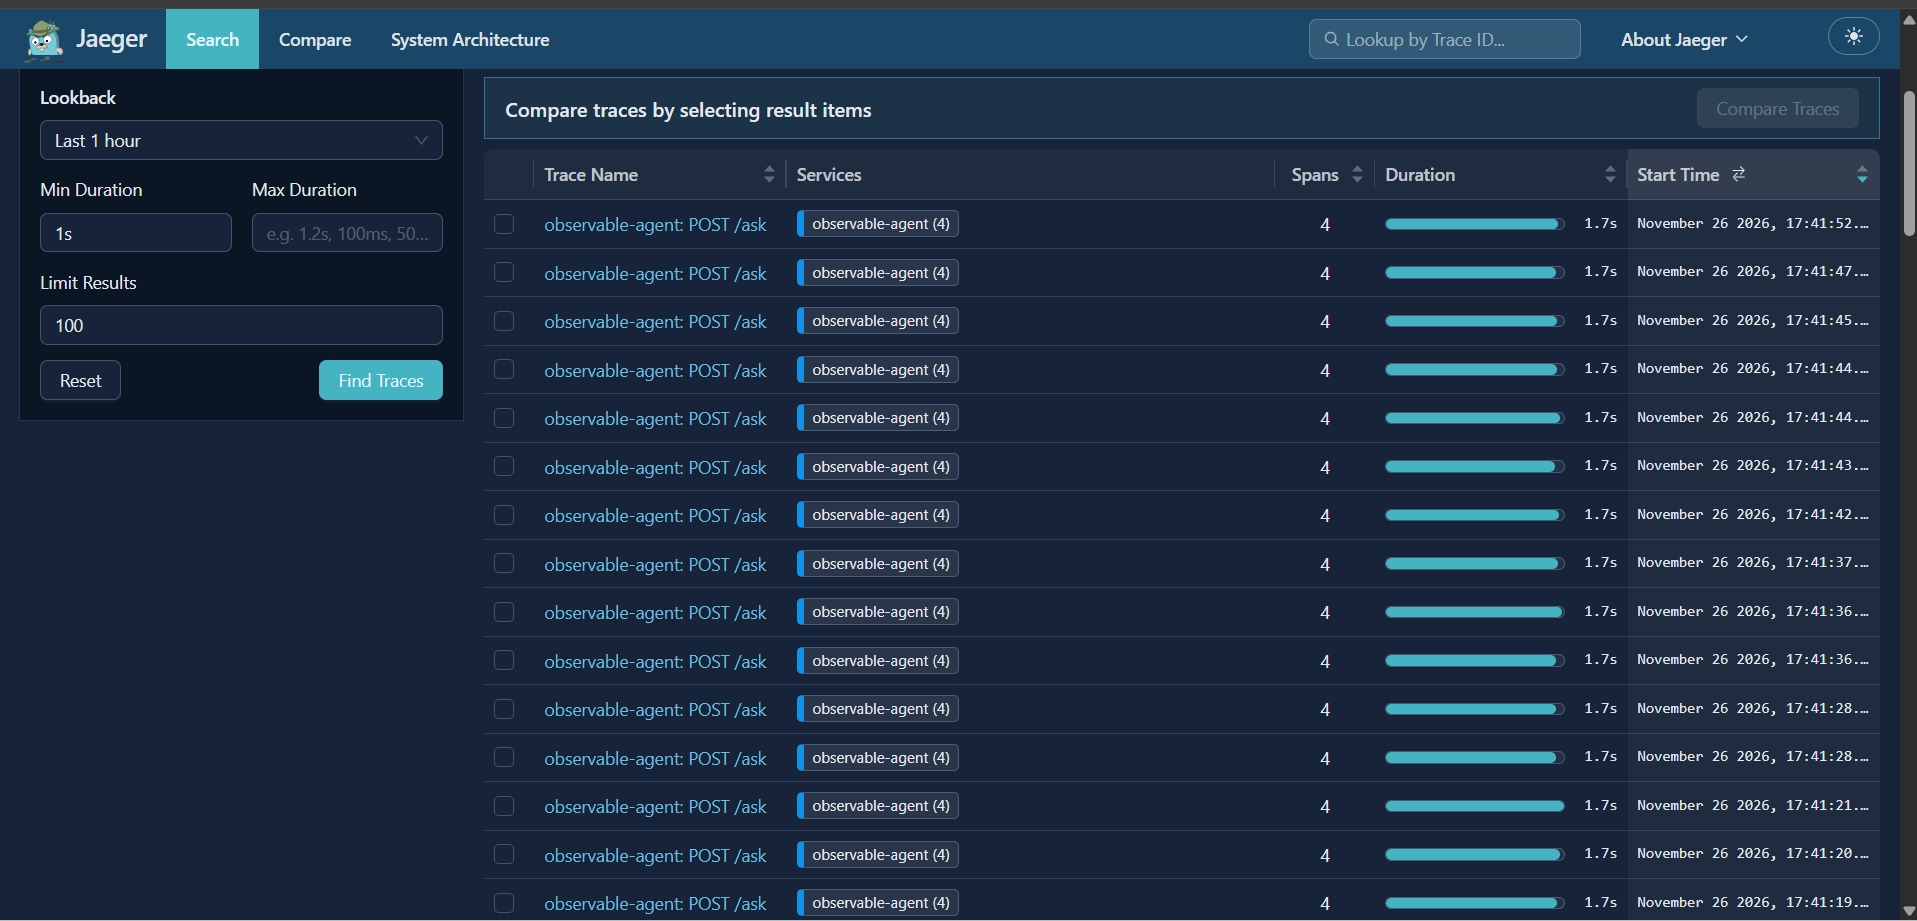
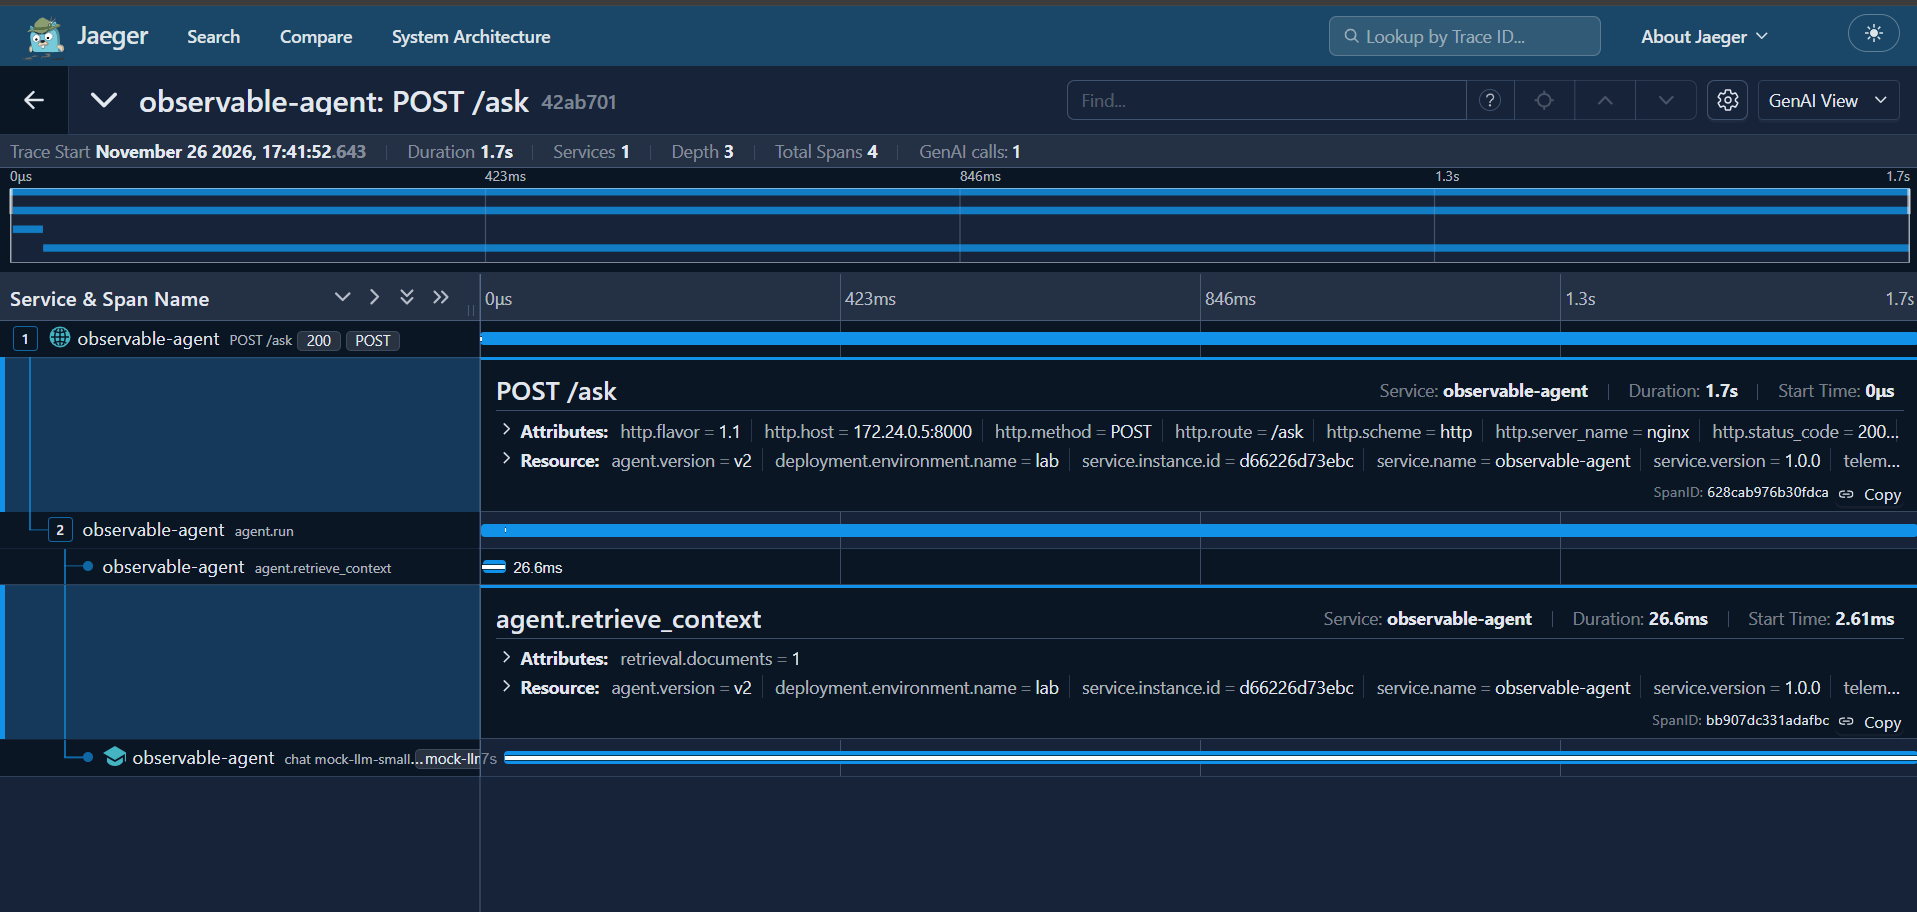
Finalize Day14 submission evidence and report

diff --git a/BENCHMARK_REPORT.md b/BENCHMARK_REPORT.md
@@ -89,15 +89,35 @@ Evidence: `reports/eval_v1.json`, `reports/eval_v2.json`, `reports/eval_v2_fixed
 
 Stack gồm Agent, Nginx, Prometheus, Grafana, Jaeger và Locust. Agent chạy 1 worker/container để tránh sai lệch metric trong bộ nhớ từng process. Prometheus scrape metric, Grafana hiển thị dashboard, Jaeger nhận OTLP traces; JSON log liên kết theo trace_id. Khi khởi chạy, Dockerfile ban đầu bị lỗi import uvicorn do đường dẫn user-site không khớp home directory. Đã sửa cài dependencies vào /install ở builder và copy sang /usr/local ở runtime; giữ multi-stage, non-root, healthcheck và một worker. Sau khi sửa, Agent healthy và `/health` qua Nginx trả HTTP 200. Xung đột port 8080 cũng đã được xử lý.
 
+**Exercise 7.4 — Observability Stack Questions**
+
+1. **p95 và average latency khác nhau như thế nào?**
+
+   Trong benchmark scaling với 1 instance, endpoint /ask có average latency 242.26 ms và p95 250 ms. Với 3 instances, average latency là 236.76 ms và p95 là 260 ms. Ảnh Grafana khi có tải ghi nhận p95 là 291.51 ms, error rate 0.21% và traffic 8.6 requests/s. Average chính xác tại thời điểm chụp ảnh chưa được ghi lại. Khoảng cách giữa average và các percentile cao phản ánh tail latency; một nhóm request chậm có thể ảnh hưởng trải nghiệm người dùng dù average vẫn thấp.
+
+2. **Nginx có phân phối traffic đều giữa các instance không?**
+
+   Panel Requests/s theo instance trong thí nghiệm E cho thấy ở giai đoạn có 3 instances, mỗi instance xử lý khoảng 6 requests/s. Traffic được phân phối tương đối đồng đều. Khi chỉ còn 2 instances hoạt động trong giai đoạn trước đó, mỗi instance xử lý khoảng 9 requests/s.
+
+3. **Vì sao input tokens/s có thể lớn hơn output tokens/s?**
+
+   Input tokens bao gồm câu hỏi, system prompt và context được retrieval bổ sung. Vì vậy input có thể lớn hơn output. Trong slow trace thực tế, input là 76 tokens và output là 39 tokens. Tuy nhiên, tỷ lệ này phụ thuộc độ dài câu trả lời; dashboard tổng hợp không phải lúc nào cũng có input tokens/s lớn hơn output tokens/s.
+
+4. **Vì sao Nginx chặn endpoint /metrics?**
+
+   Cấu hình nginx/nginx.conf định nghĩa location = /metrics trả về HTTP 404. Điều này ngăn truy cập công khai vào metrics nội bộ, tránh tiết lộ thông tin về traffic, chi phí và tình trạng hệ thống. Prometheus vẫn có thể scrape trực tiếp Agent thông qua Docker network. HTTP 404 là kết quả theo cấu hình; chưa lưu riêng output curl của endpoint này.
+
 ### 4.2 Thí nghiệm "phá hệ thống"
 
-| # | Thay đổi | Alert nào firing | Thời gian từ lúc đổi → firing | Panel nào phản ánh rõ nhất |
+| # | Thay đổi | Alert nào firing | Thời gian từ lúc đổi → quan sát firing | Panel nào phản ánh rõ nhất |
 |---|---|---|---|---|
-| A | `MOCK_ERROR_RATE=0.2` | AgentHighErrorRate | Chưa ghi chính xác; rule `for: 1m` | Error rate 20.61% (Grafana), 19.45% (Prometheus); p95 290.28 ms |
-| B | `MOCK_SLOW_RATE=0.3` (giữ error rate 0.2) | AgentHighLatencyP95 và AgentHighErrorRate | Chưa ghi chính xác; latency rule `for: 2m` | p95 1.90 s, error rate 19.37%, 15.1 req/s |
-| C | `LLM_MODEL=mock-llm-large` (khôi phục A/B) | LLMCostBurnRateHigh | Chưa điền thời gian thực đo; rule `for: 2m` | LLM cost (1h) 4.4189 USD; p95 664.19 ms, error rate 1.32% |
-| D | `docker pause` 1 instance (model mặc định) | AgentInstanceDown; LLMCostBurnRateHigh cũng đang firing | Chưa điền thời gian thực đo; instance rule `for: 30s` | Instances up 2/3, traffic 18 req/s, error rate 0.81%, p95 294.47 ms |
-| E | `AGENT_VERSION=v1` | Không có alert firing tại thời điểm quan sát | N/A | Tokens/s giảm; response xác nhận agent_version=v1; retrieval panel còn dữ liệu v2 |
+| A | `MOCK_ERROR_RATE=0.2` | AgentHighErrorRate | Chưa ghi chính xác | Error rate 20.61% (Grafana), 19.45% (Prometheus); p95 290.28 ms |
+| B | `MOCK_SLOW_RATE=0.3` (giữ error rate 0.2) | AgentHighLatencyP95 và AgentHighErrorRate | Chưa ghi chính xác | p95 1.90 s, error rate 19.37%, 15.1 req/s |
+| C | `LLM_MODEL=mock-llm-large` | LLMCostBurnRateHigh | 235 giây (3 phút 55 giây) | LLM cost (1h) 4.4189 USD; p95 664.19 ms |
+| D | `docker pause` 1 instance | AgentInstanceDown; LLMCostBurnRateHigh cũng đang firing | 221 giây (3 phút 41 giây) | Instances up 2/3, traffic 18 req/s, error rate 0.81%, p95 294.47 ms |
+| E | `AGENT_VERSION=v1` | Không có alert firing | N/A | Tokens/s giảm; response xác nhận agent_version=v1 |
+
+Thời gian thực nghiệm C và D được tính từ thời điểm bắt đầu thay đổi cấu hình đến thời điểm quan sát thấy alert ở trạng thái firing. Đây không nhất thiết là thời điểm chính xác alert vừa chuyển sang firing, do có độ trễ quan sát thủ công.
 
 Các giá trị `for` là thời gian duy trì điều kiện của rule, không phải số đo thời gian thực tế từ lúc đổi cấu hình. A hiển thị Active Since 4m 28.049s khi chụp, không dùng thay thế thời gian tới firing. B giữ lỗi A để kiểm chứng hai alert đồng thời, nên không phải hai thí nghiệm độc lập. C sử dụng chi phí mô phỏng; cost alert tính `rate` trên 5 phút quy đổi USD/giờ, khác tổng cost trong cửa sổ 1 giờ. Cost alert từng firing ở model small và còn firing trong D, có thể liên quan mức tải hoặc cửa sổ metric lịch sử. D cho thấy hai Agent vẫn phục vụ request; chưa có bằng chứng HTTP 504 từ Locust, và lỗi tại Nginx không nhất thiết xuất hiện trong metric Agent.
 
